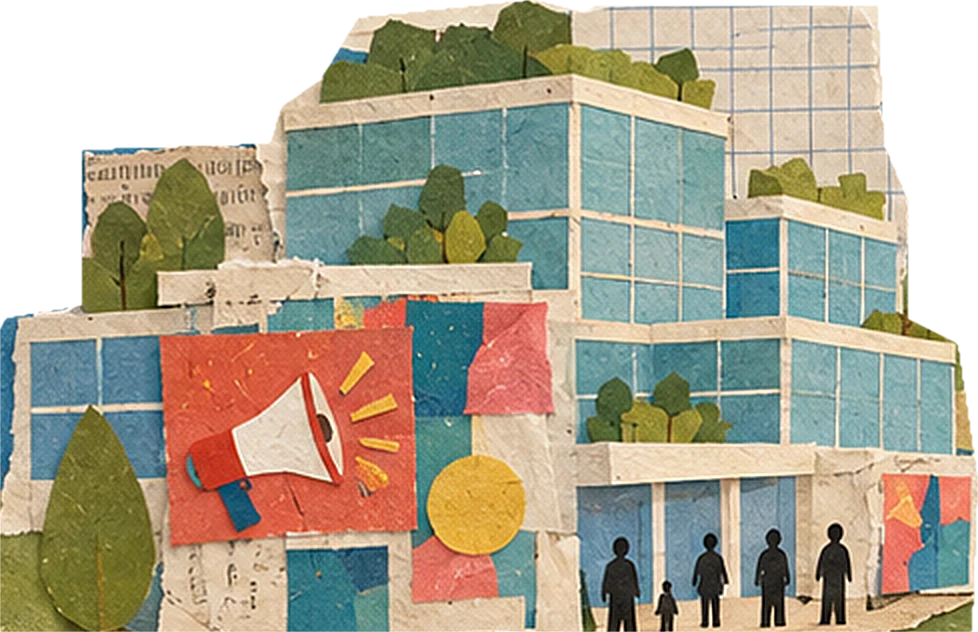
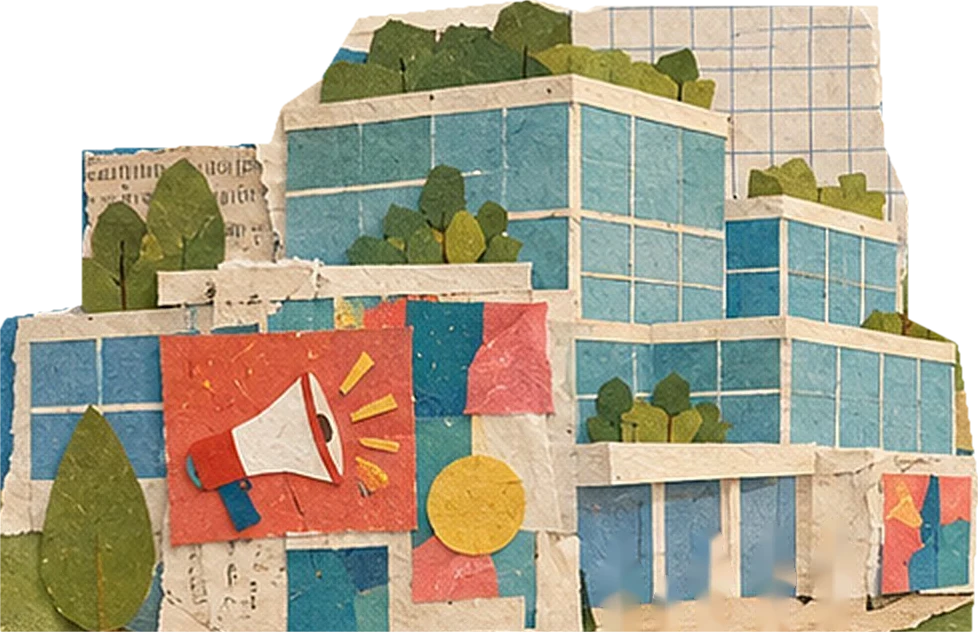
Add files via upload

Changed region(s): [[0.6135, 0.8117, 0.8896, 1.0]]

diff --git a/js/app.js b/js/app.js
@@ -1,5 +1,5 @@
 // Julian Frick – Website. Inhalte kommen aus /content/*.json (bearbeitbar unter /admin).
-const PIECES = {"uni": {"x": 0.54, "y": 25.21, "w": 29.25, "h": 33.62, "clip": "polygon(89.7% 1.1%,60.8% 0.9%,59.2% 1.9%,53.7% 0.0%,37.7% 2.5%,36.4% 3.3%,32.9% 12.3%,28.8% 16.9%,27.4% 22.8%,8.5% 23.7%,8.4% 48.1%,0.7% 50.3%,0.0% 52.1%,0.0% 99.7%,99.2% 99.8%,99.9% 75.2%,97.9% 54.6%,92.7% 50.3%,92.7% 31.5%,90.3% 23.1%)"}, "tower": {"x": 30.02, "y": 10.11, "w": 17.58, "h": 38.94, "clip": "polygon(17.2% 11.7%,17.0% 38.5%,15.0% 40.2%,7.7% 41.3%,5.8% 42.5%,3.7% 60.1%,1.7% 68.6%,2.9% 69.3%,5.8% 69.3%,7.1% 70.4%,7.1% 77.0%,6.1% 79.9%,1.0% 83.5%,0.0% 94.8%,12.8% 98.2%,45.2% 99.9%,81.3% 98.8%,98.0% 94.4%,99.8% 86.6%,98.5% 70.4%,97.8% 68.0%,93.4% 64.5%,92.5% 64.5%,87.8% 68.4%,85.7% 78.7%,84.7% 80.5%,82.7% 81.1%,77.7% 81.1%,75.9% 80.6%,75.0% 79.5%,75.0% 62.4%,75.9% 61.3%,77.4% 60.9%,81.1% 61.6%,85.5% 61.2%,85.2% 35.7%,83.8% 30.9%,83.5% 23.6%,81.5% 23.5%,78.2% 24.9%,72.6% 25.7%,66.7% 27.6%,63.6% 27.3%,62.4% 26.0%,62.4% 20.1%,63.3% 19.0%,64.8% 18.6%,64.1% 15.3%,64.5% 11.6%,55.1% 8.5%,44.0% 5.7%,42.3% 4.1%,42.2% 0.0%,40.8% 0.1%,40.8% 4.4%,39.5% 5.7%)"}, "laptop": {"x": 48.27, "y": 33.72, "w": 16.39, "h": 20.32, "clip": "polygon(0.0% 78.8%,1.1% 88.0%,78.5% 99.7%,93.2% 82.7%,93.2% 72.5%,97.6% 61.8%,99.8% 1.8%,33.0% 0.0%,29.2% 56.5%)"}, "sign": {"x": 73.74, "y": 41.38, "w": 9.84, "h": 20.85, "clip": "polygon(43.5% 0.0%,40.4% 1.0%,36.5% 4.8%,37.1% 10.2%,35.3% 11.2%,18.5% 11.7%,0.6% 14.5%,1.2% 35.2%,33.1% 32.9%,37.1% 33.9%,36.2% 39.5%,1.5% 42.3%,2.4% 62.2%,4.9% 63.0%,36.5% 61.0%,36.5% 83.4%,30.1% 75.8%,29.2% 87.8%,22.5% 81.4%,26.1% 93.9%,21.3% 98.0%,25.8% 99.2%,42.6% 98.2%,50.2% 99.7%,59.6% 99.7%,62.3% 99.0%,59.9% 95.7%,65.0% 90.1%,59.9% 89.8%,64.4% 81.1%,56.8% 85.7%,57.1% 79.8%,52.0% 84.7%,50.2% 84.7%,49.5% 60.5%,70.2% 58.4%,81.5% 58.7%,99.7% 46.4%,79.6% 36.2%,49.5% 38.8%,48.3% 37.8%,48.3% 32.9%,53.8% 31.4%,83.3% 30.4%,99.7% 18.9%,82.1% 8.2%,74.5% 7.7%,67.5% 9.2%,48.9% 10.2%,47.7% 2.8%)"}, "train": {"x": 83.34, "y": 25.53, "w": 15.88, "h": 17.55, "clip": "polygon(1.3% 40.9%,2.3% 44.5%,8.1% 43.9%,10.0% 46.4%,9.6% 60.0%,7.0% 72.7%,0.0% 76.1%,3.4% 79.1%,8.5% 79.1%,16.6% 82.7%,27.7% 81.5%,33.9% 84.5%,36.3% 83.9%,42.4% 85.8%,44.4% 88.2%,48.4% 87.6%,50.7% 85.2%,58.0% 89.4%,62.7% 88.8%,66.7% 91.8%,69.9% 90.0%,74.2% 94.8%,81.5% 95.5%,83.2% 99.7%,85.1% 99.4%,85.9% 93.6%,87.4% 92.4%,92.8% 93.0%,95.3% 95.5%,98.1% 95.5%,99.8% 90.9%,99.4% 74.8%,96.0% 49.4%,93.0% 46.1%,92.7% 42.4%,85.7% 34.5%,71.0% 13.9%,46.3% 2.4%,45.4% 0.0%,38.8% 0.0%,37.5% 3.0%,23.7% 20.0%)"}, "cupid": {"x": 77.5, "y": 12.5, "w": 4.4, "h": 5.76}, "figur": {"x": 44.26, "y": 54.15, "w": 8.79, "h": 43.62}, "ki": {"x": 57.79, "y": 80.94, "w": 6.31, "h": 7.15}, "flugzeug": {"x": 42.76, "y": 4.79, "w": 7.48, "h": 4.47}, "fahnen": {"x": 93.66, "y": 18.72, "w": 3.17, "h": 4.47}, "dokumente": {"x": 89.23, "y": 84.36, "w": 8.97, "h": 13.3}, "herzwolke": {"x": 77.51, "y": 11.28, "w": 5.38, "h": 6.38}, "wolke1": {"x": 0.0, "y": 3.351, "w": 23.295, "h": 17.128}, "wolke2": {"x": 53.678, "y": 7.553, "w": 13.278, "h": 12.926}, "wolke3": {"x": 72.159, "y": 17.394, "w": 12.859, "h": 10.0}, "vogel1": {"x": 21.411, "y": 5.745, "w": 4.785, "h": 3.723}, "vogel2": {"x": 26.675, "y": 9.681, "w": 4.665, "h": 3.723}, "zug": {"x": 88.337, "y": 33.404, "w": 10.945, "h": 9.468}};
+const PIECES = {"uni": {"x": 0.54, "y": 25.21, "w": 29.25, "h": 33.62, "clip": "polygon(89.7% 1.1%,60.8% 0.9%,59.2% 1.9%,53.7% 0.0%,37.7% 2.5%,36.4% 3.3%,32.9% 12.3%,28.8% 16.9%,27.4% 22.8%,8.5% 23.7%,8.4% 48.1%,0.7% 50.3%,0.0% 52.1%,0.0% 99.7%,99.2% 99.8%,99.9% 75.2%,97.9% 54.6%,92.7% 50.3%,92.7% 31.5%,90.3% 23.1%)"}, "tower": {"x": 30.02, "y": 10.11, "w": 17.58, "h": 38.94, "clip": "polygon(17.2% 11.7%,17.0% 38.5%,15.0% 40.2%,7.7% 41.3%,5.8% 42.5%,3.7% 60.1%,1.7% 68.6%,2.9% 69.3%,5.8% 69.3%,7.1% 70.4%,7.1% 77.0%,6.1% 79.9%,1.0% 83.5%,0.0% 94.8%,12.8% 98.2%,45.2% 99.9%,81.3% 98.8%,98.0% 94.4%,99.8% 86.6%,98.5% 70.4%,97.8% 68.0%,93.4% 64.5%,92.5% 64.5%,87.8% 68.4%,85.7% 78.7%,84.7% 80.5%,82.7% 81.1%,77.7% 81.1%,75.9% 80.6%,75.0% 79.5%,75.0% 62.4%,75.9% 61.3%,77.4% 60.9%,81.1% 61.6%,85.5% 61.2%,85.2% 35.7%,83.8% 30.9%,83.5% 23.6%,81.5% 23.5%,78.2% 24.9%,72.6% 25.7%,66.7% 27.6%,63.6% 27.3%,62.4% 26.0%,62.4% 20.1%,63.3% 19.0%,64.8% 18.6%,64.1% 15.3%,64.5% 11.6%,55.1% 8.5%,44.0% 5.7%,42.3% 4.1%,42.2% 0.0%,40.8% 0.1%,40.8% 4.4%,39.5% 5.7%)"}, "laptop": {"x": 48.27, "y": 33.72, "w": 16.39, "h": 20.32, "clip": "polygon(0.0% 78.8%,1.1% 88.0%,78.5% 99.7%,93.2% 82.7%,93.2% 72.5%,97.6% 61.8%,99.8% 1.8%,33.0% 0.0%,29.2% 56.5%)"}, "sign": {"x": 73.74, "y": 41.38, "w": 9.84, "h": 20.85, "clip": "polygon(43.5% 0.0%,40.4% 1.0%,36.5% 4.8%,37.1% 10.2%,35.3% 11.2%,18.5% 11.7%,0.6% 14.5%,1.2% 35.2%,33.1% 32.9%,37.1% 33.9%,36.2% 39.5%,1.5% 42.3%,2.4% 62.2%,4.9% 63.0%,36.5% 61.0%,36.5% 83.4%,30.1% 75.8%,29.2% 87.8%,22.5% 81.4%,26.1% 93.9%,21.3% 98.0%,25.8% 99.2%,42.6% 98.2%,50.2% 99.7%,59.6% 99.7%,62.3% 99.0%,59.9% 95.7%,65.0% 90.1%,59.9% 89.8%,64.4% 81.1%,56.8% 85.7%,57.1% 79.8%,52.0% 84.7%,50.2% 84.7%,49.5% 60.5%,70.2% 58.4%,81.5% 58.7%,99.7% 46.4%,79.6% 36.2%,49.5% 38.8%,48.3% 37.8%,48.3% 32.9%,53.8% 31.4%,83.3% 30.4%,99.7% 18.9%,82.1% 8.2%,74.5% 7.7%,67.5% 9.2%,48.9% 10.2%,47.7% 2.8%)"}, "train": {"x": 83.34, "y": 25.53, "w": 15.88, "h": 17.55, "clip": "polygon(1.3% 40.9%,2.3% 44.5%,8.1% 43.9%,10.0% 46.4%,9.6% 60.0%,7.0% 72.7%,0.0% 76.1%,3.4% 79.1%,8.5% 79.1%,16.6% 82.7%,27.7% 81.5%,33.9% 84.5%,36.3% 83.9%,42.4% 85.8%,44.4% 88.2%,48.4% 87.6%,50.7% 85.2%,58.0% 89.4%,62.7% 88.8%,66.7% 91.8%,69.9% 90.0%,74.2% 94.8%,81.5% 95.5%,83.2% 99.7%,85.1% 99.4%,85.9% 93.6%,87.4% 92.4%,92.8% 93.0%,95.3% 95.5%,98.1% 95.5%,99.8% 90.9%,99.4% 74.8%,96.0% 49.4%,93.0% 46.1%,92.7% 42.4%,85.7% 34.5%,71.0% 13.9%,46.3% 2.4%,45.4% 0.0%,38.8% 0.0%,37.5% 3.0%,23.7% 20.0%)"}, "cupid": {"x": 77.5, "y": 12.5, "w": 4.4, "h": 5.76}, "figur": {"x": 44.26, "y": 54.15, "w": 8.79, "h": 43.62}, "ki": {"x": 57.79, "y": 80.94, "w": 6.31, "h": 7.15}, "flugzeug": {"x": 42.76, "y": 4.79, "w": 7.48, "h": 4.47}, "fahnen": {"x": 93.66, "y": 18.72, "w": 3.17, "h": 4.47}, "dokumente": {"x": 89.23, "y": 84.36, "w": 8.97, "h": 13.3}, "herzwolke": {"x": 77.51, "y": 11.28, "w": 5.38, "h": 6.38}, "wolke1": {"x": 0.0, "y": 3.351, "w": 23.295, "h": 17.128}, "wolke2": {"x": 53.678, "y": 7.553, "w": 13.278, "h": 12.926}, "wolke3": {"x": 72.159, "y": 17.394, "w": 12.859, "h": 10.0}, "vogel1": {"x": 21.411, "y": 5.745, "w": 4.785, "h": 3.723}, "vogel2": {"x": 26.675, "y": 9.681, "w": 4.665, "h": 3.723}, "zug": {"x": 88.337, "y": 33.404, "w": 10.945, "h": 9.468}, "person1": {"x": 18.451, "y": 53.617, "w": 1.316, "h": 6.277}, "person2": {"x": 20.066, "y": 55.957, "w": 0.837, "h": 3.032}, "person3": {"x": 21.142, "y": 53.404, "w": 1.256, "h": 5.319}, "person4": {"x": 23.026, "y": 53.191, "w": 1.226, "h": 5.532}, "person5": {"x": 24.85, "y": 52.926, "w": 1.226, "h": 5.691}};
 const SPOTS = [
   {id:"ausbildung", piece:"uni",    tilt:"-1.5deg"},
   {id:"erfahrung",  piece:"tower",  tilt:"1.2deg"},
@@ -53,6 +53,12 @@ async function buildScene(){
     b.innerHTML = `<img src="${url("img/pieces/"+s.piece+".webp")}" alt=""${p.clip ? ` style="clip-path:${p.clip}"` : ""}><span class="tag">${esc(label)}</span>`;
     if (s.id === "willkommen") b.classList.add("figure");
     const cxp = p.x + p.w/2; if (cxp > 85) b.classList.add("tag-r"); else if (cxp < 12) b.classList.add("tag-l");
+    if (s.id === "ausbildung"){
+      for (let i = 1; i <= 5; i++){
+        const z = PIECES["person"+i]; if (!z) continue;
+        b.insertAdjacentHTML("beforeend", `<img class="person idle i${i}" alt="" src="${url("img/pieces/person"+i+".webp")}" style="left:${(z.x-p.x)/p.w*100}%;top:${(z.y-p.y)/p.h*100}%;width:${z.w/p.w*100}%;height:${z.h/p.h*100}%">`);
+      }
+    }
     if (s.id === "kontakt"){
       const z = PIECES.zug;
       b.insertAdjacentHTML("beforeend", `<img class="train-move" alt="" src="${url("img/pieces/zug.webp")}" style="left:${(z.x-p.x)/p.w*100}%;top:${(z.y-p.y)/p.h*100}%;width:${z.w/p.w*100}%;height:${z.h/p.h*100}%">`);

diff --git a/css/style.css b/css/style.css
@@ -153,3 +153,12 @@ a.proj{text-decoration:none}
 .welcome.withphoto{display:grid;grid-template-columns:160px 1fr;gap:24px;align-items:start}
 .headshot{width:100%;aspect-ratio:4/5;object-fit:cover;border:7px solid #fff;box-shadow:0 2px 8px rgba(0,0,0,.2);transform:rotate(-2deg)}
 @media (max-width:560px){.welcome.withphoto{grid-template-columns:1fr}.headshot{max-width:180px}}
+.spot img.person{position:absolute;pointer-events:none;transform-origin:50% 100%}
+.idle{animation:idle 3.6s ease-in-out infinite}
+.idle.i1{animation-duration:4.2s;animation-delay:-1s}
+.idle.i2{animation:hop 2.4s ease-in-out infinite;animation-delay:-.6s}
+.idle.i3{animation-duration:3.4s;animation-delay:-2.2s}
+.idle.i4{animation-duration:4.6s;animation-delay:-.3s;animation-direction:reverse}
+.idle.i5{animation-duration:3.9s;animation-delay:-1.7s}
+@keyframes idle{0%,100%{transform:rotate(-1.6deg)}50%{transform:rotate(1.6deg) translateY(-1.5%)}}
+@keyframes hop{0%,60%,100%{transform:translateY(0)}70%{transform:translateY(-9%)}80%{transform:translateY(0)}88%{transform:translateY(-5%)}}
